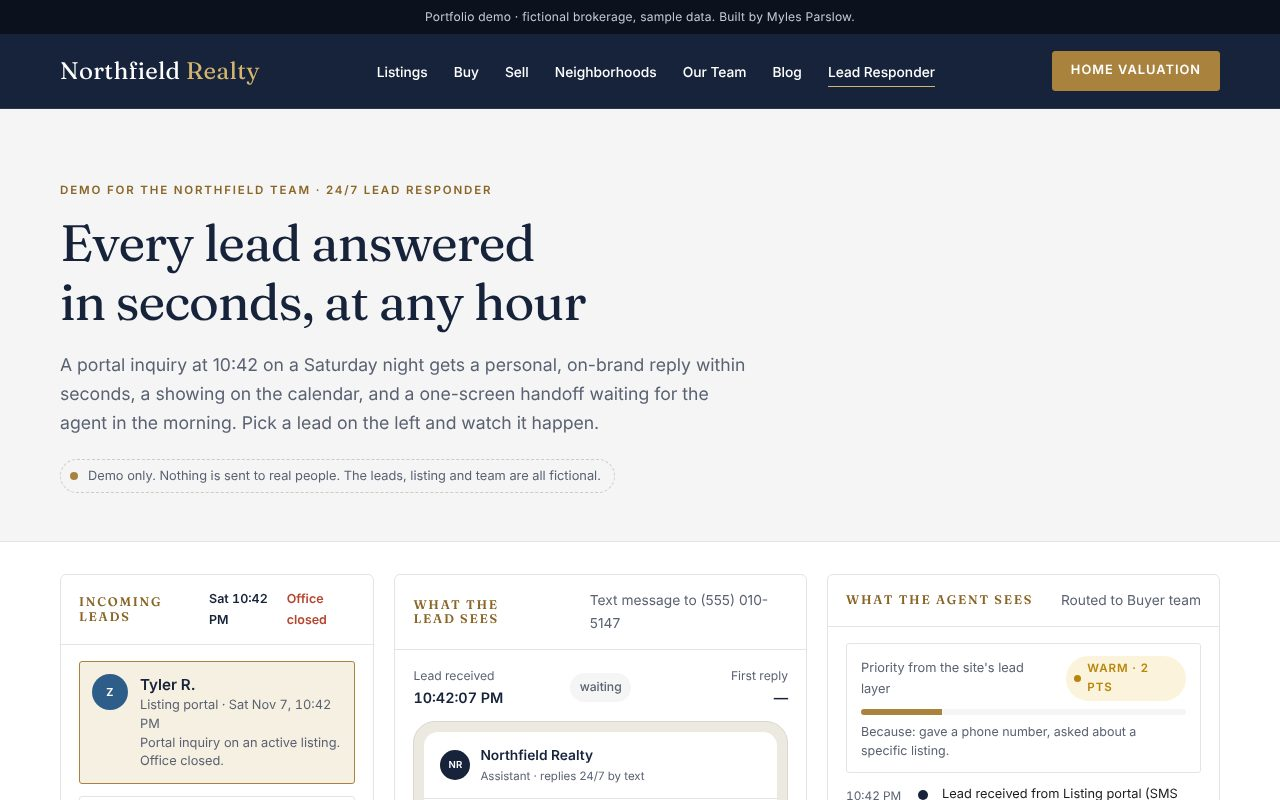
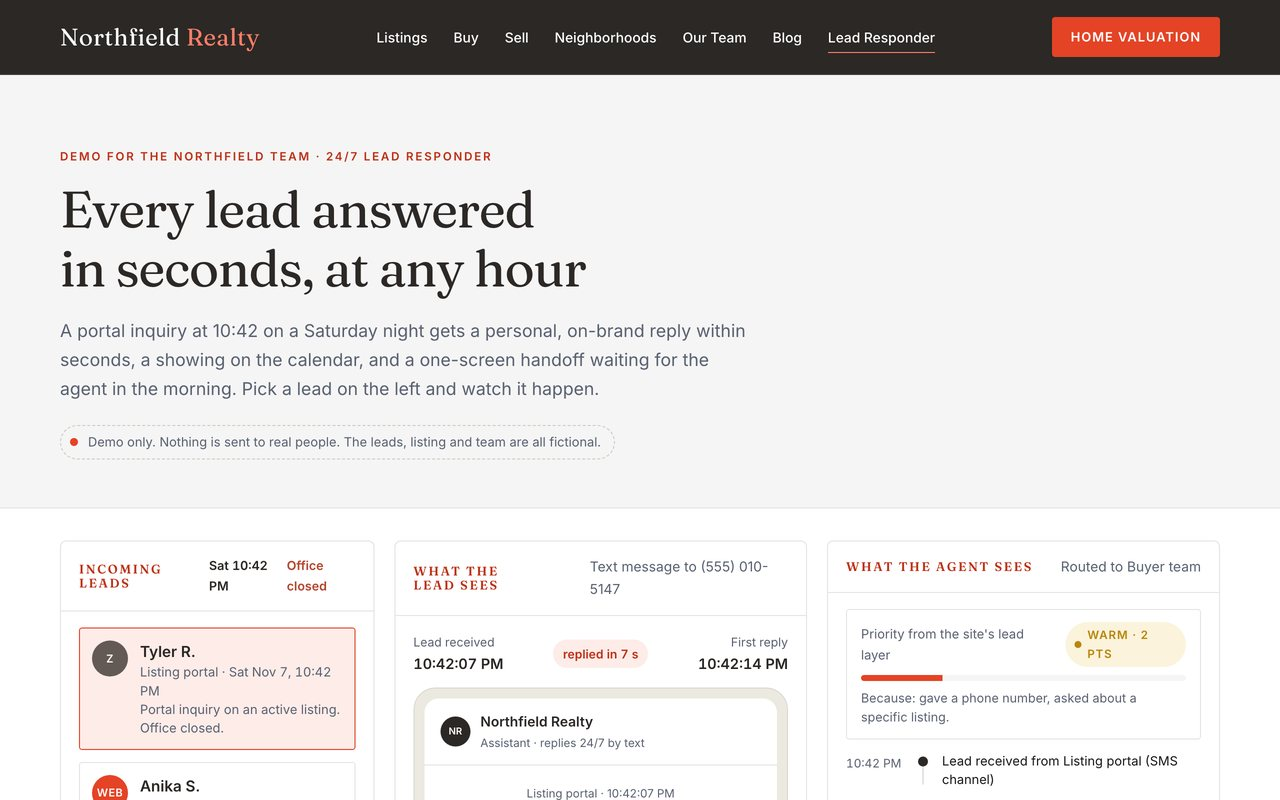
Point Northfield Realty case study at the live site on mlpconsults.com and refresh screenshots
Replaces all eight case-study screenshots and the home/index thumbnails
with fresh captures of the redesigned photo-based site and tools at
mlpconsults.com/work/brokerage/, links the site and tools there, and
updates alt text to match. The pitch case study stays self-hosted.

Claude-Session: https://claude.ai/code/session_01PJvvaLAhUUHHGtU6hPw6PV

diff --git a/business/index.html b/business/index.html
@@ -466,7 +466,7 @@ setTimeout(function(){d.classList.remove('arriving')},6000);}
     <p class="chap__lede" data-fade>A full website and ten working AI tools for an independent boutique brokerage, built in a weekend. The site has plain-English listing search, 48 local guides and buyer and seller calculators. The tools cover a 24/7 lead responder, reviews, listing marketing, virtual staging, video ads, social posts, client emails, market reports and a Team Hub that holds them all. Shown with a fictional firm and sample data.</p>
   </div>
   <div class="cbody">
-<p class="links"><a target="_blank" rel="noopener" href="../demos/northfield-realty/">Open the full build</a><a target="_blank" rel="noopener" href="../demos/northfield-realty/site/">The website</a><a target="_blank" rel="noopener" href="../demos/northfield-realty/hub/">The Team Hub</a><span>Fictional firm. Client details, names, photos and figures have been changed</span></p>
+<p class="links"><a target="_blank" rel="noopener" href="https://mlpconsults.com/work/brokerage/">Open the full build</a><a target="_blank" rel="noopener" href="https://mlpconsults.com/work/brokerage/site/">The website</a><a target="_blank" rel="noopener" href="https://mlpconsults.com/work/brokerage/hub/">The Team Hub</a><span>Live on mlpconsults.com. Fictional firm; the listings, people and figures are sample data</span></p>
 
     <dl class="stats">
       <div><dt>Working AI tools</dt><dd>10</dd></div>
@@ -479,35 +479,35 @@ setTimeout(function(){d.classList.remove('arriving')},6000);}
 
     <div class="shots">
       <figure>
-        <img decoding="async" src="../assets/northfield-site.jpg" alt="The Northfield Realty website: a navy hero with an illustrated skyline, the headline Exceptional homes from Elm Hollow to Willow Bend, and a property search bar." width="1280" height="800" loading="lazy">
+        <img decoding="async" src="../assets/northfield-site.jpg" alt="The Northfield Realty website: a dark hero over a photo of a lit house at dusk, the headline Exceptional homes from Elm Hollow to Willow Bend, and a search box with a Describe your home tab." width="1280" height="800" loading="lazy">
         <figcaption>The website: search in plain English, listings, neighborhoods, team, reviews and valuation.</figcaption>
       </figure>
       <figure>
-        <img decoding="async" src="../assets/northfield-hub.jpg" alt="The Northfield Team Hub dashboard: a sidebar listing every tool, a greeting for the broker, cards for new leads, appointments, reviews, posts and email open rate, an approvals queue and an activity feed." width="1280" height="800" loading="lazy">
+        <img decoding="async" src="../assets/northfield-hub.jpg" alt="The Northfield Team Hub in a dark theme: a sidebar listing every tool, a greeting for the broker, cards for new leads, appointments, reviews, posts and email open rate, an approvals queue and an activity feed." width="1280" height="800" loading="lazy">
         <figcaption>The Team Hub: every tool in one place, and nothing goes out until a person approves it.</figcaption>
       </figure>
       <figure>
-        <img decoding="async" src="../assets/northfield-responder.jpg" alt="The 24/7 lead responder demo: a Saturday-night portal inquiry, the text reply the lead sees within seconds, and the handoff card the agent sees in the morning." width="1280" height="800" loading="lazy">
+        <img decoding="async" src="../assets/northfield-responder.jpg" alt="The 24/7 lead responder demo under the website header: a Saturday-night portal inquiry, the text reply the lead sees seven seconds later, and the handoff card the agent sees in the morning." width="1280" height="800" loading="lazy">
         <figcaption>The lead responder: a late-night inquiry answered in seconds and a showing booked.</figcaption>
       </figure>
       <figure>
-        <img decoding="async" src="../assets/northfield-launch.jpg" alt="The listing launch kit: a property details form on the left and, on the right, generated headline options, MLS remarks, social, email and open-house tabs with copy buttons and a fair-housing check." width="1280" height="800" loading="lazy">
+        <img decoding="async" src="../assets/northfield-launch.jpg" alt="The listing launch kit: sample listings and a property details form on the left and, on the right, generated headline options, a photo carousel, and MLS, social, email, open-house and fair-housing tabs." width="1280" height="800" loading="lazy">
         <figcaption>The listing launch kit: one set of property details in, every piece of listing copy out.</figcaption>
       </figure>
       <figure>
-        <img decoding="async" src="../assets/northfield-ads.jpg" alt="Four vertical video ads side by side, each a different style: feature reveal, countdown, cinematic and myth or fact, with illustrated houses and play buttons." width="1280" height="800" loading="lazy">
+        <img decoding="async" src="../assets/northfield-ads.jpg" alt="Four vertical video ads side by side, each a different style: feature reveal, countdown, cinematic and myth or fact, built on listing photos with play buttons." width="1280" height="800" loading="lazy">
         <figcaption>Vertical video ads in four styles, built from a listing.</figcaption>
       </figure>
       <figure>
-        <img decoding="async" src="../assets/northfield-reports.jpg" alt="Neighborhood market reports: tabs for eight fictional neighborhoods and cards with median sale prices and year-over-year changes." width="1280" height="800" loading="lazy">
+        <img decoding="async" src="../assets/northfield-reports.jpg" alt="Neighborhood market reports: tabs for eight fictional neighborhoods and cards with median sale prices and year-over-year changes, marked as sample data." width="1280" height="800" loading="lazy">
         <figcaption>Monthly market reports for eight neighborhoods.</figcaption>
       </figure>
       <figure>
-        <img decoding="async" src="../assets/northfield-site-blog.jpg" alt="The Northfield blog index: category filters, a search box showing 48 articles, and a featured first-time buyer guide." width="1280" height="800" loading="lazy">
+        <img decoding="async" src="../assets/northfield-site-blog.jpg" alt="The Northfield blog index: category filters, a search box showing 48 articles, and a featured first-time buyer guide with a photo of a modern home and pool." width="1280" height="800" loading="lazy">
         <figcaption>A library of 48 local guides, written to rank on Google and be quoted by AI search.</figcaption>
       </figure>
       <figure>
-        <img decoding="async" src="../assets/northfield-reviews.jpg" alt="The review engine: a post-closing timeline from a day-0 congratulations text through a one-year anniversary note, with sample ratings." width="1280" height="800" loading="lazy">
+        <img decoding="async" src="../assets/northfield-reviews.jpg" alt="The review engine: the pitch for turning every closing into a public review, sample ratings, and a post-closing timeline from a day-0 congratulations text to a one-year anniversary note." width="1280" height="800" loading="lazy">
         <figcaption>The review engine: every client gets every review link, with no gating.</figcaption>
       </figure>
     </div>
@@ -516,27 +516,27 @@ setTimeout(function(){d.classList.remove('arriving')},6000);}
       <section class="block">
         <h3>The website</h3>
         <ul>
-          <li><a target="_blank" rel="noopener" href="../demos/northfield-realty/site/"><strong>Brokerage site:</strong></a> listing search by filters or by a sentence like &ldquo;3-bed in Elm Hollow under $900k with a garage&rdquo;, featured and sold listings, neighborhoods, team, reviews, and valuation and contact forms.</li>
-          <li><a target="_blank" rel="noopener" href="../demos/northfield-realty/site/blog/"><strong>Blog and SEO library:</strong></a> 48 guides, from neighborhood profiles and comparisons to buyer and seller explainers, each with quick answers, FAQs and structured data, plus category filters and live search.</li>
-          <li><a target="_blank" rel="noopener" href="../demos/northfield-realty/site/tools/"><strong>Calculators:</strong></a> monthly payment, affordability and seller net proceeds, plus listing-alert sign-up.</li>
-          <li><a target="_blank" rel="noopener" href="../demos/northfield-realty/security/"><strong>Website security report:</strong></a> plain-language findings on a hacked site (hidden spam links, a poisoned robots.txt, an outdated CMS) and a three-phase cleanup plan.</li>
+          <li><a target="_blank" rel="noopener" href="https://mlpconsults.com/work/brokerage/site/"><strong>Brokerage site:</strong></a> listing search by filters or by a sentence like &ldquo;3-bed in Elm Hollow under $900k with a garage&rdquo;, featured and sold listings, neighborhoods, team, reviews, and valuation and contact forms.</li>
+          <li><a target="_blank" rel="noopener" href="https://mlpconsults.com/work/brokerage/site/blog/"><strong>Blog and SEO library:</strong></a> 48 guides, from neighborhood profiles and comparisons to buyer and seller explainers, each with quick answers, FAQs and structured data, plus category filters and live search.</li>
+          <li><a target="_blank" rel="noopener" href="https://mlpconsults.com/work/brokerage/site/tools/"><strong>Calculators:</strong></a> monthly payment, affordability and seller net proceeds, plus listing-alert sign-up.</li>
+          <li><a target="_blank" rel="noopener" href="https://mlpconsults.com/work/brokerage/security/"><strong>Website security report:</strong></a> plain-language findings on a hacked site (hidden spam links, a poisoned robots.txt, an outdated CMS) and a three-phase cleanup plan.</li>
           <li><a target="_blank" rel="noopener" href="../demos/northfield-realty/case-study/"><strong>Case study:</strong></a> the pitch behind it, built as three optional layers so the firm never has to throw away what works.</li>
         </ul>
       </section>
       <section class="block">
         <h3>The AI tools</h3>
         <ul>
-          <li><a target="_blank" rel="noopener" href="../demos/northfield-realty/hub/"><strong>Team Hub:</strong></a> leads, approvals and activity in one dashboard, every tool opening inside it, and a view-as switcher for each agent.</li>
-          <li><a target="_blank" rel="noopener" href="../demos/northfield-realty/responder/"><strong>24/7 lead responder:</strong></a> replies by text and email in under a minute, qualifies the lead and books a showing on the right agent's calendar.</li>
-          <li><a target="_blank" rel="noopener" href="../demos/northfield-realty/reviews/"><strong>Review engine:</strong></a> day 0, 2, 7, 30 and one-year touches after closing, and reviews reused on the site and social.</li>
-          <li><a target="_blank" rel="noopener" href="../demos/northfield-realty/launch/"><strong>Listing launch kit:</strong></a> MLS remarks, social posts, an email blast and open-house copy from one set of details, with a fair-housing screen.</li>
-          <li><a target="_blank" rel="noopener" href="../demos/northfield-realty/staging/"><strong>Virtual staging,</strong></a> <a target="_blank" rel="noopener" href="../demos/northfield-realty/ads/"><strong>vertical video ads</strong></a> and a <a target="_blank" rel="noopener" href="../demos/northfield-realty/social/"><strong>social engine</strong></a> that drafts a week of posts and video scripts for approval.</li>
-          <li><a target="_blank" rel="noopener" href="../demos/northfield-realty/nurture/"><strong>Past-client emails</strong></a> with a monthly home value and equity note, and <a target="_blank" rel="noopener" href="../demos/northfield-realty/reports/"><strong>market reports</strong></a> for eight neighborhoods.</li>
+          <li><a target="_blank" rel="noopener" href="https://mlpconsults.com/work/brokerage/hub/"><strong>Team Hub:</strong></a> leads, approvals and activity in one dashboard, every tool opening inside it, and a view-as switcher for each agent.</li>
+          <li><a target="_blank" rel="noopener" href="https://mlpconsults.com/work/brokerage/responder/"><strong>24/7 lead responder:</strong></a> replies by text and email in under a minute, qualifies the lead and books a showing on the right agent's calendar.</li>
+          <li><a target="_blank" rel="noopener" href="https://mlpconsults.com/work/brokerage/reviews/"><strong>Review engine:</strong></a> day 0, 2, 7, 30 and one-year touches after closing, and reviews reused on the site and social.</li>
+          <li><a target="_blank" rel="noopener" href="https://mlpconsults.com/work/brokerage/launch/"><strong>Listing launch kit:</strong></a> MLS remarks, social posts, an email blast and open-house copy from one set of details, with a fair-housing screen.</li>
+          <li><a target="_blank" rel="noopener" href="https://mlpconsults.com/work/brokerage/staging/"><strong>Virtual staging,</strong></a> <a target="_blank" rel="noopener" href="https://mlpconsults.com/work/brokerage/ads/"><strong>vertical video ads</strong></a> and a <a target="_blank" rel="noopener" href="https://mlpconsults.com/work/brokerage/social/"><strong>social engine</strong></a> that drafts a week of posts and video scripts for approval.</li>
+          <li><a target="_blank" rel="noopener" href="https://mlpconsults.com/work/brokerage/nurture/"><strong>Past-client emails</strong></a> with a monthly home value and equity note, and <a target="_blank" rel="noopener" href="https://mlpconsults.com/work/brokerage/reports/"><strong>market reports</strong></a> for eight neighborhoods.</li>
         </ul>
       </section>
     </div>
 
-    <div class="made"><b>How it was built</b><p>Built with Claude, with Gemini for the virtual-staging images (shown here as illustrations). I researched the market, chose the features, set the tone and copy rules, and made sure every tool checks for fair-housing problems and waits for a person to approve before anything goes out. Claude built the website, the blog, the tools and the Team Hub.</p></div>
+    <div class="made"><b>How it was built</b><p>Built with Claude, with Gemini for the virtual-staging images. I researched the market, chose the features, set the tone and copy rules, and made sure every tool checks for fair-housing problems and waits for a person to approve before anything goes out. Claude built the website, the blog, the tools and the Team Hub.</p></div>
   </div>
   <p class="chap__end"><a href="#index">Back to the index <span aria-hidden="true">&uarr;</span></a></p>
 </article>

diff --git a/mockup-b/business/index.html b/mockup-b/business/index.html
@@ -479,35 +479,35 @@ setTimeout(function(){d.classList.remove('arriving')},6000);}
 
     <div class="shots">
       <figure>
-        <img decoding="async" src="../../assets/northfield-site.jpg" alt="The Northfield Realty website: a navy hero with an illustrated skyline, the headline Exceptional homes from Elm Hollow to Willow Bend, and a property search bar." width="1280" height="800" loading="lazy">
+        <img decoding="async" src="../../assets/northfield-site.jpg" alt="The Northfield Realty website: a dark hero over a photo of a lit house at dusk, the headline Exceptional homes from Elm Hollow to Willow Bend, and a search box with a Describe your home tab." width="1280" height="800" loading="lazy">
         <figcaption>The website: search in plain English, listings, neighborhoods, team, reviews and valuation.</figcaption>
       </figure>
       <figure>
-        <img decoding="async" src="../../assets/northfield-hub.jpg" alt="The Northfield Team Hub dashboard: a sidebar listing every tool, a greeting for the broker, cards for new leads, appointments, reviews, posts and email open rate, an approvals queue and an activity feed." width="1280" height="800" loading="lazy">
+        <img decoding="async" src="../../assets/northfield-hub.jpg" alt="The Northfield Team Hub in a dark theme: a sidebar listing every tool, a greeting for the broker, cards for new leads, appointments, reviews, posts and email open rate, an approvals queue and an activity feed." width="1280" height="800" loading="lazy">
         <figcaption>The Team Hub: every tool in one place, and nothing goes out until a person approves it.</figcaption>
       </figure>
       <figure>
-        <img decoding="async" src="../../assets/northfield-responder.jpg" alt="The 24/7 lead responder demo: a Saturday-night portal inquiry, the text reply the lead sees within seconds, and the handoff card the agent sees in the morning." width="1280" height="800" loading="lazy">
+        <img decoding="async" src="../../assets/northfield-responder.jpg" alt="The 24/7 lead responder demo under the website header: a Saturday-night portal inquiry, the text reply the lead sees seven seconds later, and the handoff card the agent sees in the morning." width="1280" height="800" loading="lazy">
         <figcaption>The lead responder: a late-night inquiry answered in seconds and a showing booked.</figcaption>
       </figure>
       <figure>
-        <img decoding="async" src="../../assets/northfield-launch.jpg" alt="The listing launch kit: a property details form on the left and, on the right, generated headline options, MLS remarks, social, email and open-house tabs with copy buttons and a fair-housing check." width="1280" height="800" loading="lazy">
+        <img decoding="async" src="../../assets/northfield-launch.jpg" alt="The listing launch kit: sample listings and a property details form on the left and, on the right, generated headline options, a photo carousel, and MLS, social, email, open-house and fair-housing tabs." width="1280" height="800" loading="lazy">
         <figcaption>The listing launch kit: one set of property details in, every piece of listing copy out.</figcaption>
       </figure>
       <figure>
-        <img decoding="async" src="../../assets/northfield-ads.jpg" alt="Four vertical video ads side by side, each a different style: feature reveal, countdown, cinematic and myth or fact, with illustrated houses and play buttons." width="1280" height="800" loading="lazy">
+        <img decoding="async" src="../../assets/northfield-ads.jpg" alt="Four vertical video ads side by side, each a different style: feature reveal, countdown, cinematic and myth or fact, built on listing photos with play buttons." width="1280" height="800" loading="lazy">
         <figcaption>Vertical video ads in four styles, built from a listing.</figcaption>
       </figure>
       <figure>
-        <img decoding="async" src="../../assets/northfield-reports.jpg" alt="Neighborhood market reports: tabs for eight fictional neighborhoods and cards with median sale prices and year-over-year changes." width="1280" height="800" loading="lazy">
+        <img decoding="async" src="../../assets/northfield-reports.jpg" alt="Neighborhood market reports: tabs for eight fictional neighborhoods and cards with median sale prices and year-over-year changes, marked as sample data." width="1280" height="800" loading="lazy">
         <figcaption>Monthly market reports for eight neighborhoods.</figcaption>
       </figure>
       <figure>
-        <img decoding="async" src="../../assets/northfield-site-blog.jpg" alt="The Northfield blog index: category filters, a search box showing 48 articles, and a featured first-time buyer guide." width="1280" height="800" loading="lazy">
+        <img decoding="async" src="../../assets/northfield-site-blog.jpg" alt="The Northfield blog index: category filters, a search box showing 48 articles, and a featured first-time buyer guide with a photo of a modern home and pool." width="1280" height="800" loading="lazy">
         <figcaption>A library of 48 local guides, written to rank on Google and be quoted by AI search.</figcaption>
       </figure>
       <figure>
-        <img decoding="async" src="../../assets/northfield-reviews.jpg" alt="The review engine: a post-closing timeline from a day-0 congratulations text through a one-year anniversary note, with sample ratings." width="1280" height="800" loading="lazy">
+        <img decoding="async" src="../../assets/northfield-reviews.jpg" alt="The review engine: the pitch for turning every closing into a public review, sample ratings, and a post-closing timeline from a day-0 congratulations text to a one-year anniversary note." width="1280" height="800" loading="lazy">
         <figcaption>The review engine: every client gets every review link, with no gating.</figcaption>
       </figure>
     </div>

diff --git a/themed/source/business.html b/themed/source/business.html
@@ -798,35 +798,35 @@ details.case[hidden] { display: none; }
 
     <div class="shots">
       <figure>
-        <img src="../assets/northfield-site.jpg" alt="The Northfield Realty website: a navy hero with an illustrated skyline, the headline Exceptional homes from Elm Hollow to Willow Bend, and a property search bar." width="1280" height="800" loading="lazy">
+        <img src="../assets/northfield-site.jpg" alt="The Northfield Realty website: a dark hero over a photo of a lit house at dusk, the headline Exceptional homes from Elm Hollow to Willow Bend, and a search box with a Describe your home tab." width="1280" height="800" loading="lazy">
         <figcaption>The website: search in plain English, listings, neighborhoods, team, reviews and valuation.</figcaption>
       </figure>
       <figure>
-        <img src="../assets/northfield-hub.jpg" alt="The Northfield Team Hub dashboard: a sidebar listing every tool, a greeting for the broker, cards for new leads, appointments, reviews, posts and email open rate, an approvals queue and an activity feed." width="1280" height="800" loading="lazy">
+        <img src="../assets/northfield-hub.jpg" alt="The Northfield Team Hub in a dark theme: a sidebar listing every tool, a greeting for the broker, cards for new leads, appointments, reviews, posts and email open rate, an approvals queue and an activity feed." width="1280" height="800" loading="lazy">
         <figcaption>The Team Hub: every tool in one place, and nothing goes out until a person approves it.</figcaption>
       </figure>
       <figure>
-        <img src="../assets/northfield-responder.jpg" alt="The 24/7 lead responder demo: a Saturday-night portal inquiry, the text reply the lead sees within seconds, and the handoff card the agent sees in the morning." width="1280" height="800" loading="lazy">
+        <img src="../assets/northfield-responder.jpg" alt="The 24/7 lead responder demo under the website header: a Saturday-night portal inquiry, the text reply the lead sees seven seconds later, and the handoff card the agent sees in the morning." width="1280" height="800" loading="lazy">
         <figcaption>The lead responder: a late-night inquiry answered in seconds and a showing booked.</figcaption>
       </figure>
       <figure>
-        <img src="../assets/northfield-launch.jpg" alt="The listing launch kit: a property details form on the left and, on the right, generated headline options, MLS remarks, social, email and open-house tabs with copy buttons and a fair-housing check." width="1280" height="800" loading="lazy">
+        <img src="../assets/northfield-launch.jpg" alt="The listing launch kit: sample listings and a property details form on the left and, on the right, generated headline options, a photo carousel, and MLS, social, email, open-house and fair-housing tabs." width="1280" height="800" loading="lazy">
         <figcaption>The listing launch kit: one set of property details in, every piece of listing copy out.</figcaption>
       </figure>
       <figure>
-        <img src="../assets/northfield-ads.jpg" alt="Four vertical video ads side by side, each a different style: feature reveal, countdown, cinematic and myth or fact, with illustrated houses and play buttons." width="1280" height="800" loading="lazy">
+        <img src="../assets/northfield-ads.jpg" alt="Four vertical video ads side by side, each a different style: feature reveal, countdown, cinematic and myth or fact, built on listing photos with play buttons." width="1280" height="800" loading="lazy">
         <figcaption>Vertical video ads in four styles, built from a listing.</figcaption>
       </figure>
       <figure>
-        <img src="../assets/northfield-reports.jpg" alt="Neighborhood market reports: tabs for eight fictional neighborhoods and cards with median sale prices and year-over-year changes." width="1280" height="800" loading="lazy">
+        <img src="../assets/northfield-reports.jpg" alt="Neighborhood market reports: tabs for eight fictional neighborhoods and cards with median sale prices and year-over-year changes, marked as sample data." width="1280" height="800" loading="lazy">
         <figcaption>Monthly market reports for eight neighborhoods.</figcaption>
       </figure>
       <figure>
-        <img src="../assets/northfield-site-blog.jpg" alt="The Northfield blog index: category filters, a search box showing 48 articles, and a featured first-time buyer guide." width="1280" height="800" loading="lazy">
+        <img src="../assets/northfield-site-blog.jpg" alt="The Northfield blog index: category filters, a search box showing 48 articles, and a featured first-time buyer guide with a photo of a modern home and pool." width="1280" height="800" loading="lazy">
         <figcaption>A library of 48 local guides, written to rank on Google and be quoted by AI search.</figcaption>
       </figure>
       <figure>
-        <img src="../assets/northfield-reviews.jpg" alt="The review engine: a post-closing timeline from a day-0 congratulations text through a one-year anniversary note, with sample ratings." width="1280" height="800" loading="lazy">
+        <img src="../assets/northfield-reviews.jpg" alt="The review engine: the pitch for turning every closing into a public review, sample ratings, and a post-closing timeline from a day-0 congratulations text to a one-year anniversary note." width="1280" height="800" loading="lazy">
         <figcaption>The review engine: every client gets every review link, with no gating.</figcaption>
       </figure>
     </div>
